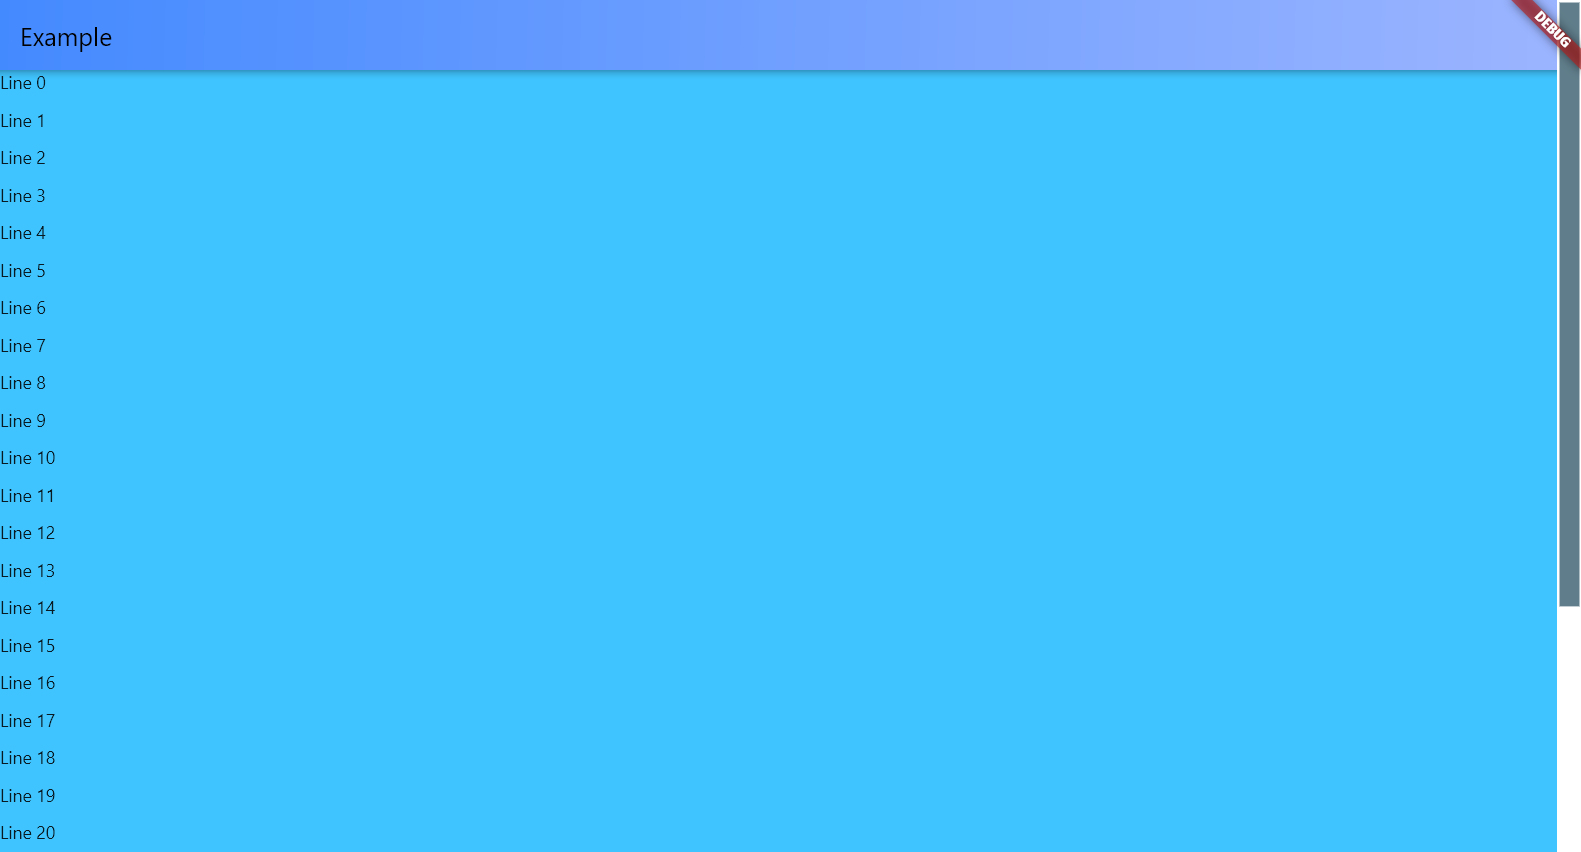
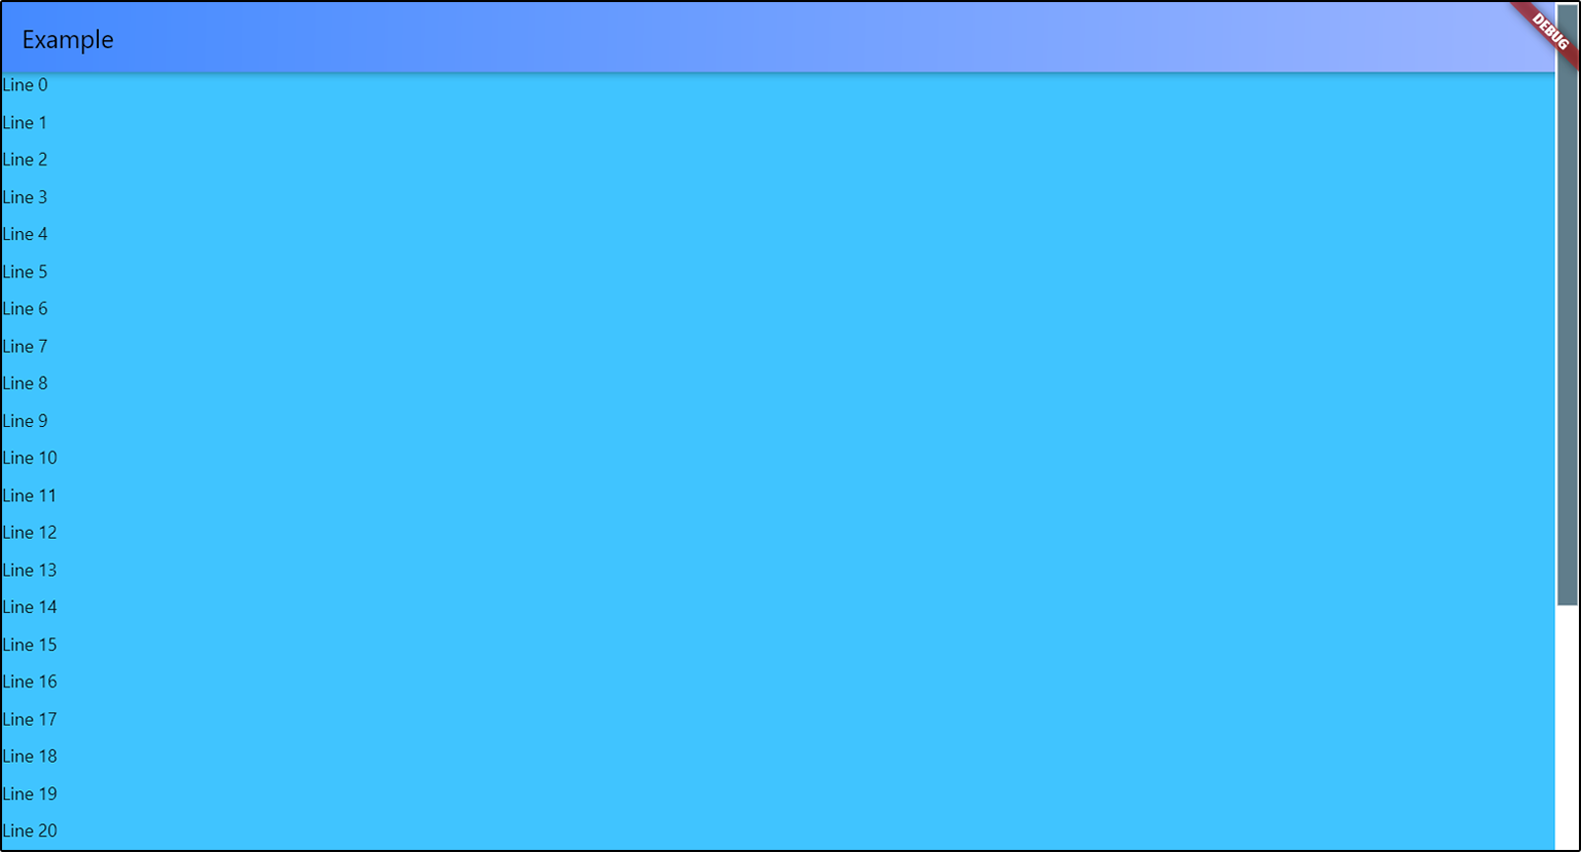
Pictures updating.

diff --git a/CHANGELOG.md b/CHANGELOG.md
@@ -6,3 +6,6 @@
 
 ## [0.1.2] - 15.04.2021
 * Some changes in instruction and example, added some pictures.
+
+## [0.1.3] - 15.04.2021
+* Fixed problem with pictures.
